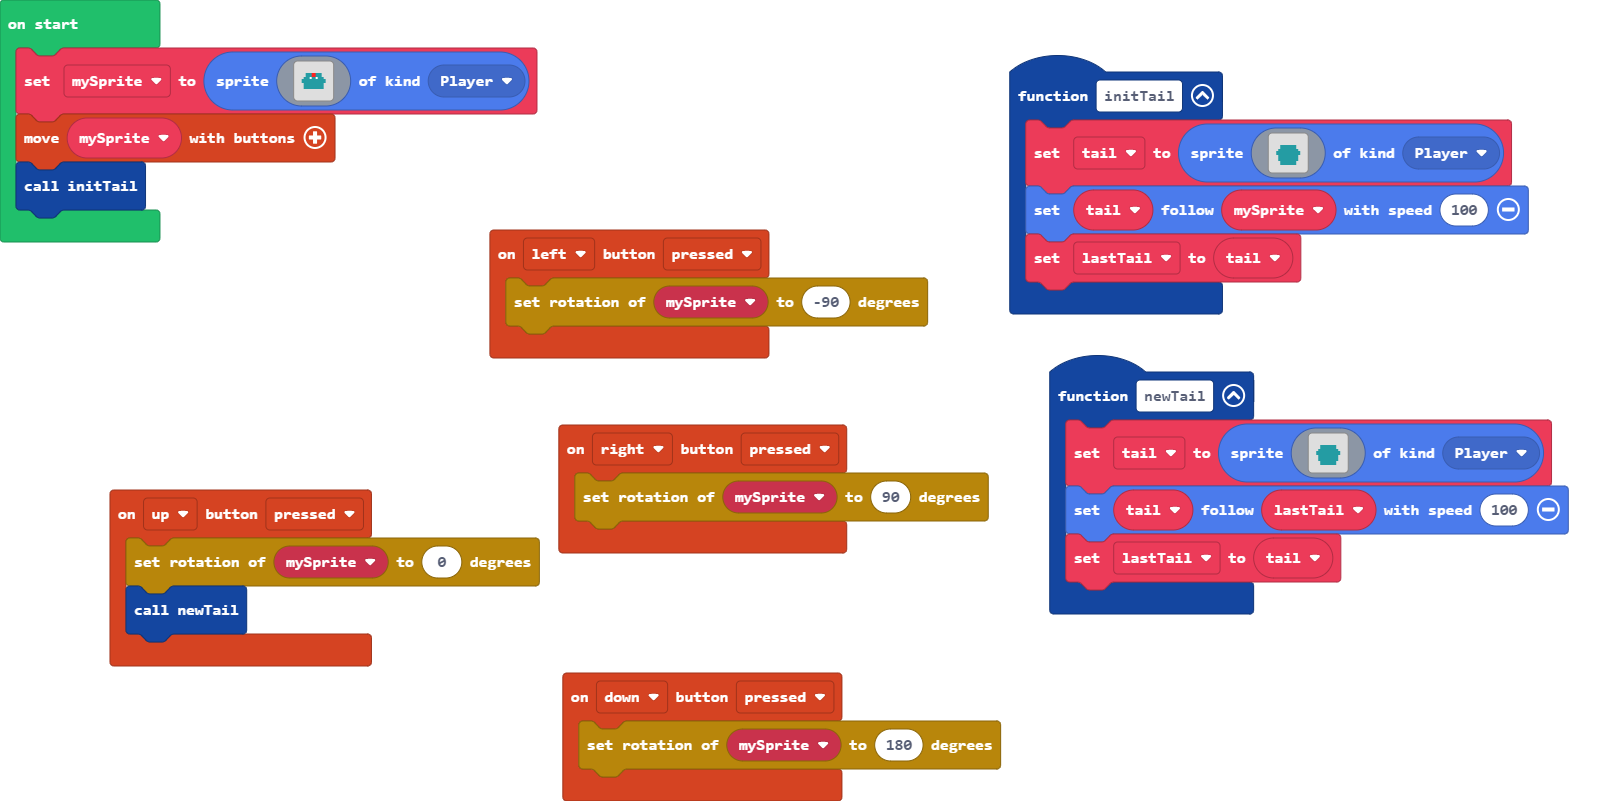
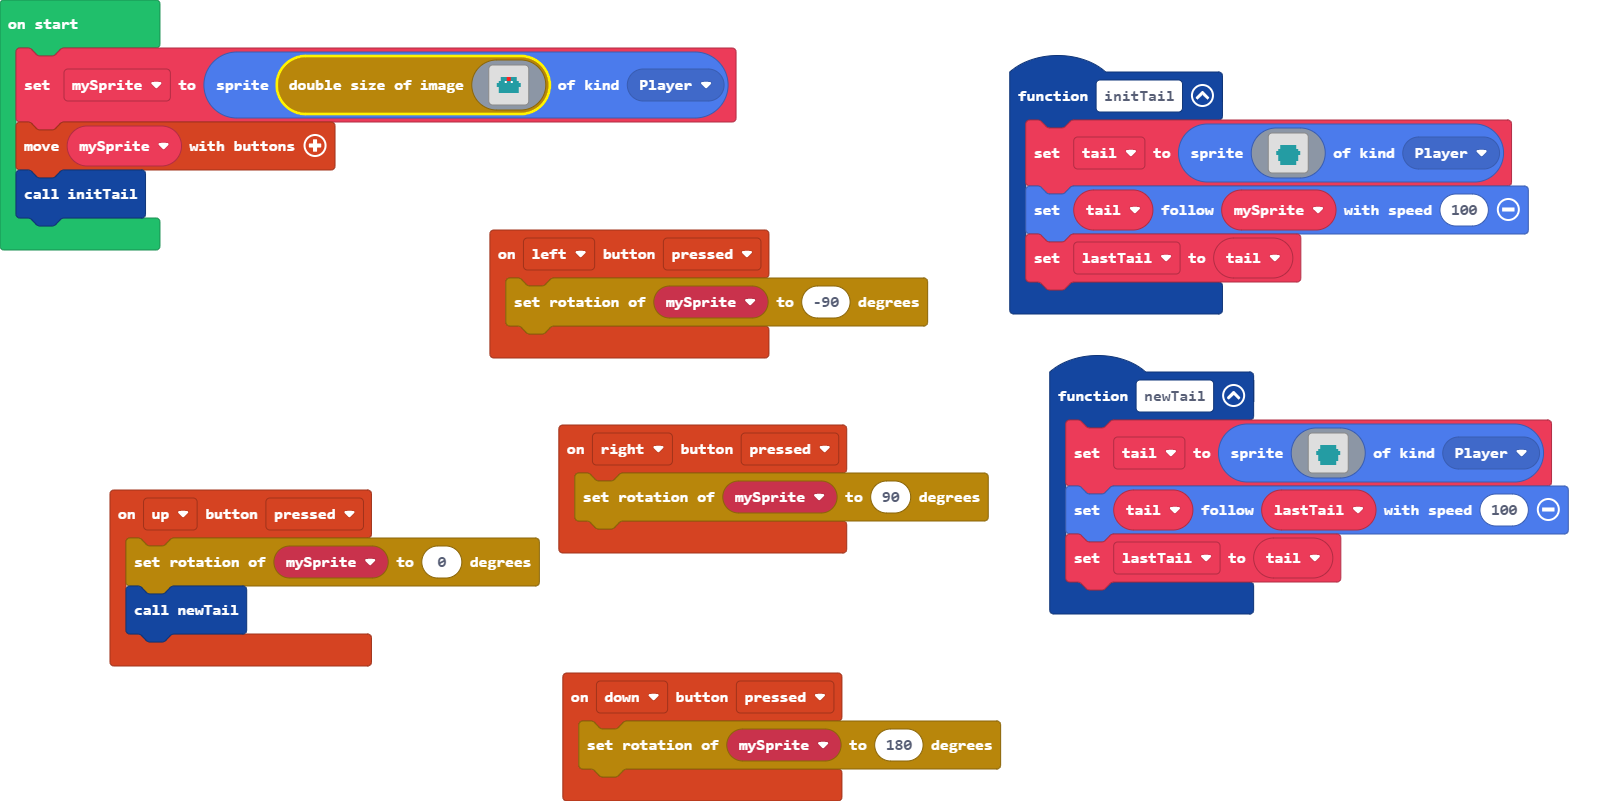
Update main.blocks, main.ts

Changed region(s): [[0.0, 0.0312, 0.463, 0.3121]]

diff --git a/main.ts b/main.ts
@@ -58,7 +58,7 @@ function newTail () {
 let lastTail: Sprite = null
 let tail: Sprite = null
 let mySprite: Sprite = null
-mySprite = sprites.create(img`
+mySprite = sprites.create(transformSprites.scale2x(img`
     . . . . . . . . . . . . . . . . 
     . . . . . . . . . . . . . . . . 
     . . . . . . . . . . . . . . . . 
@@ -75,6 +75,6 @@ mySprite = sprites.create(img`
     . . . . . . . . . . . . . . . . 
     . . . . . . . . . . . . . . . . 
     . . . . . . . . . . . . . . . . 
-    `, SpriteKind.Player)
+    `), SpriteKind.Player)
 controller.moveSprite(mySprite)
 initTail()
